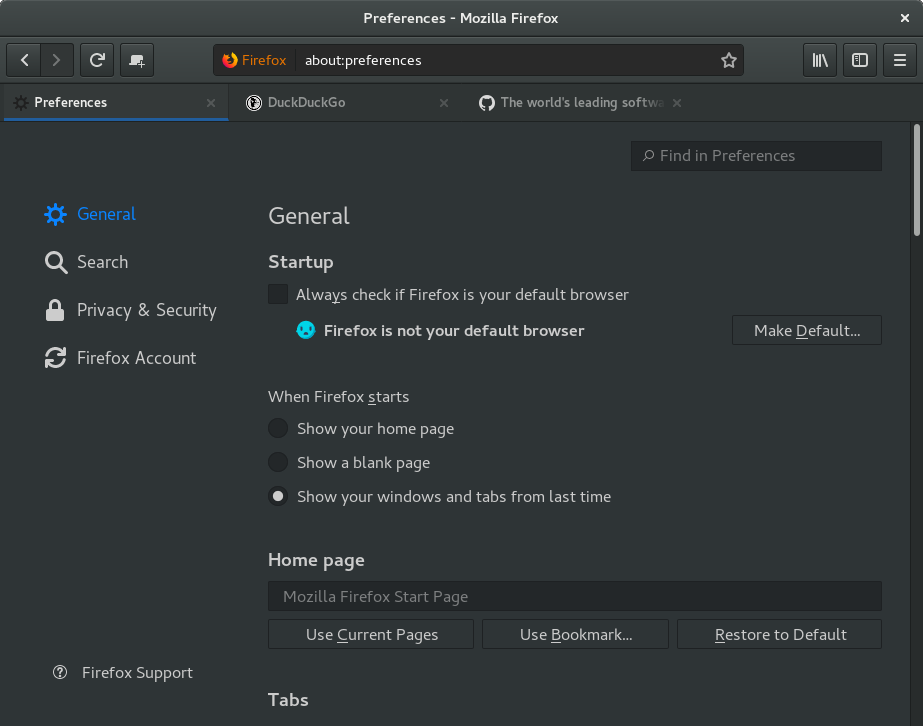
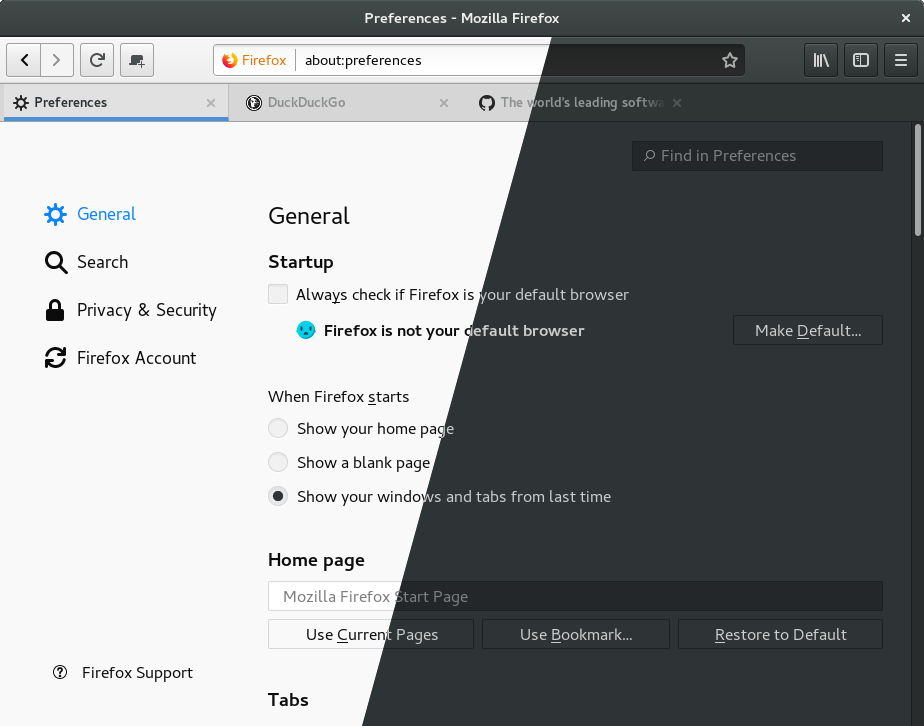
update README and the screenshot, closes #2

diff --git a/README.md b/README.md
@@ -1,12 +1,12 @@
-# Firefox Gnome Theme (dark variant only... for now)
+# Firefox Gnome Theme
 
 ![Screenshot of the theme](screenshot.png)
 
 ## Description
 
 This is a bunch of CSS code to make Firefox 57+ look closer to GNOME's default
-dark theme. It styles the UI and interal Firefox' pages like about: and
-view-source:. I only wrote styles for the dark variant, not the light one.
+theme. It styles the UI and, if you pick the dark variant, interal Firefox'
+pages like about: and view-source:. Both light and dark variants are supported.
 
 ## Installation
 
@@ -21,13 +21,34 @@ Extensions can no longer style UI elements, but we can still use good old
 	git clone 'https://github.com/kurogetsusai/firefox-gnome-theme.git' chrome
 	```
 
-You must run Firefox with the dark theme, either by setting it globally as your
-default theme in GNOME Tweak Tools, or by running Firefox with the GTK_THEME
-variable like this:
+3. The GTK theme variant must match the variant you picked for this Firefox
+theme, which means you must either enable (for the dark variant) or disable (for
+the light one) global dark theme in GNOME Tweak Tools, or alternativelly, you
+can run Firefox with a specific variant without changing the global theme by
+supplying the GTK_THEME variable like this:
 
-```sh
-GTK_THEME=Adwaita:dark firefox
+	```sh
+	# for the dark theme
+	GTK_THEME=Adwaita:dark firefox
+
+	# for the light one
+	GTK_THEME=Adwaita:light firefox
+	```
+
+If you choose the light variant, you must also enable it in your
+`userChrome.css` file and disable the dark one. Just uncomment the
+`@import "ui/theme-light.css";` file and comment the
+`@import "ui/theme-dark.css";` one, so it looks like this:
+
+```css
+/* Dark theme */
+/*@import "ui/theme-dark.css"; /**/
+/* Light theme */
+@import "ui/theme-light.css"; /**/
 ```
+
+The `userContent.css` file makes all the Firefox' internal pages dark, so if you
+don't want them dark, just remove that file.
 
 You might want to adjust your default link colors so they are more visible on
 dark background, either drop the code below into your
@@ -63,8 +84,8 @@ issues here on GitHub and share your ideas if you know how to fix them.
 
 ## Development
 
-If you wanna mess around the styles and change something, or create a light
-variant of this theme, you might find these things useful.
+If you wanna mess around the styles and change something, you might find these
+things useful.
 
 To use the Inspector to debug the UI, open the developer tools (F12) on any
 page, go to options, check both of those:
